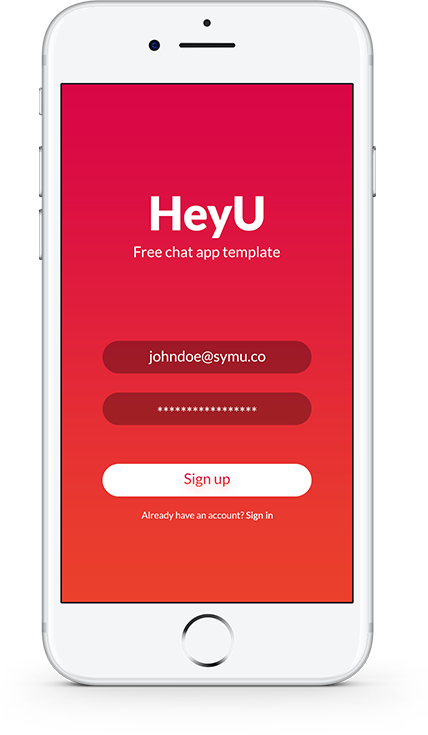
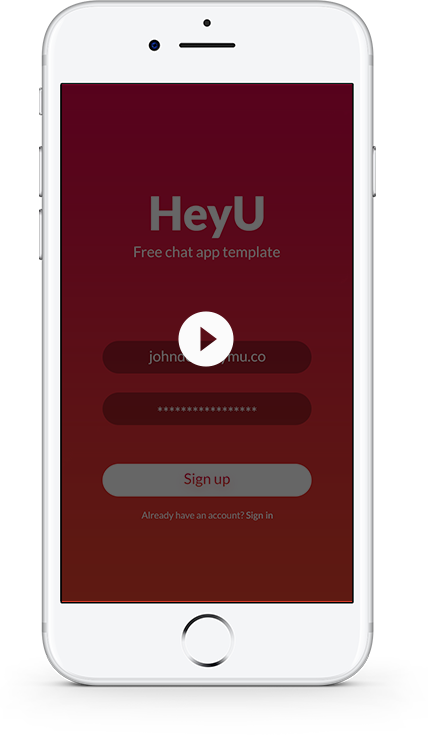
Minor Project: Stable Release-v1

diff --git a/Minor Project/assets/stylesheet/index.css b/Minor Project/assets/stylesheet/index.css
@@ -208,22 +208,8 @@ a:hover > button { text-decoration: underline; }
     background-image: linear-gradient(to top, #eb402c 0%, #d90647 100%);
     width: 100%;
 }
-.play-tra {
-    position: relative;
-    top: -655px;
-    left: 606px;
-    height: 519px;
-    width: 292px;
-    background: #000000;
-    opacity: 0.6;
-}
-.play-pho, .play-img {
+.play-pho {
     margin-top: -85px;
-}
-.play-img {
-    top: -910px;
-    position: relative;
-    left: -10px;
 }
 
 .msg-1 {

diff --git a/Minor Project/index.html b/Minor Project/index.html
@@ -85,8 +85,6 @@
     <div class="page-5">
         <div class="box">
             <img class="play-pho" src="assets/images/login.png">
-            <div class="play-tra"></div>
-            <img  class="play-img" src="assets/images/play.png">
         </div>
         <div class="msg-1">
             <img src="assets/images/ic-msg.png"><h2>Start conversation</h2>
